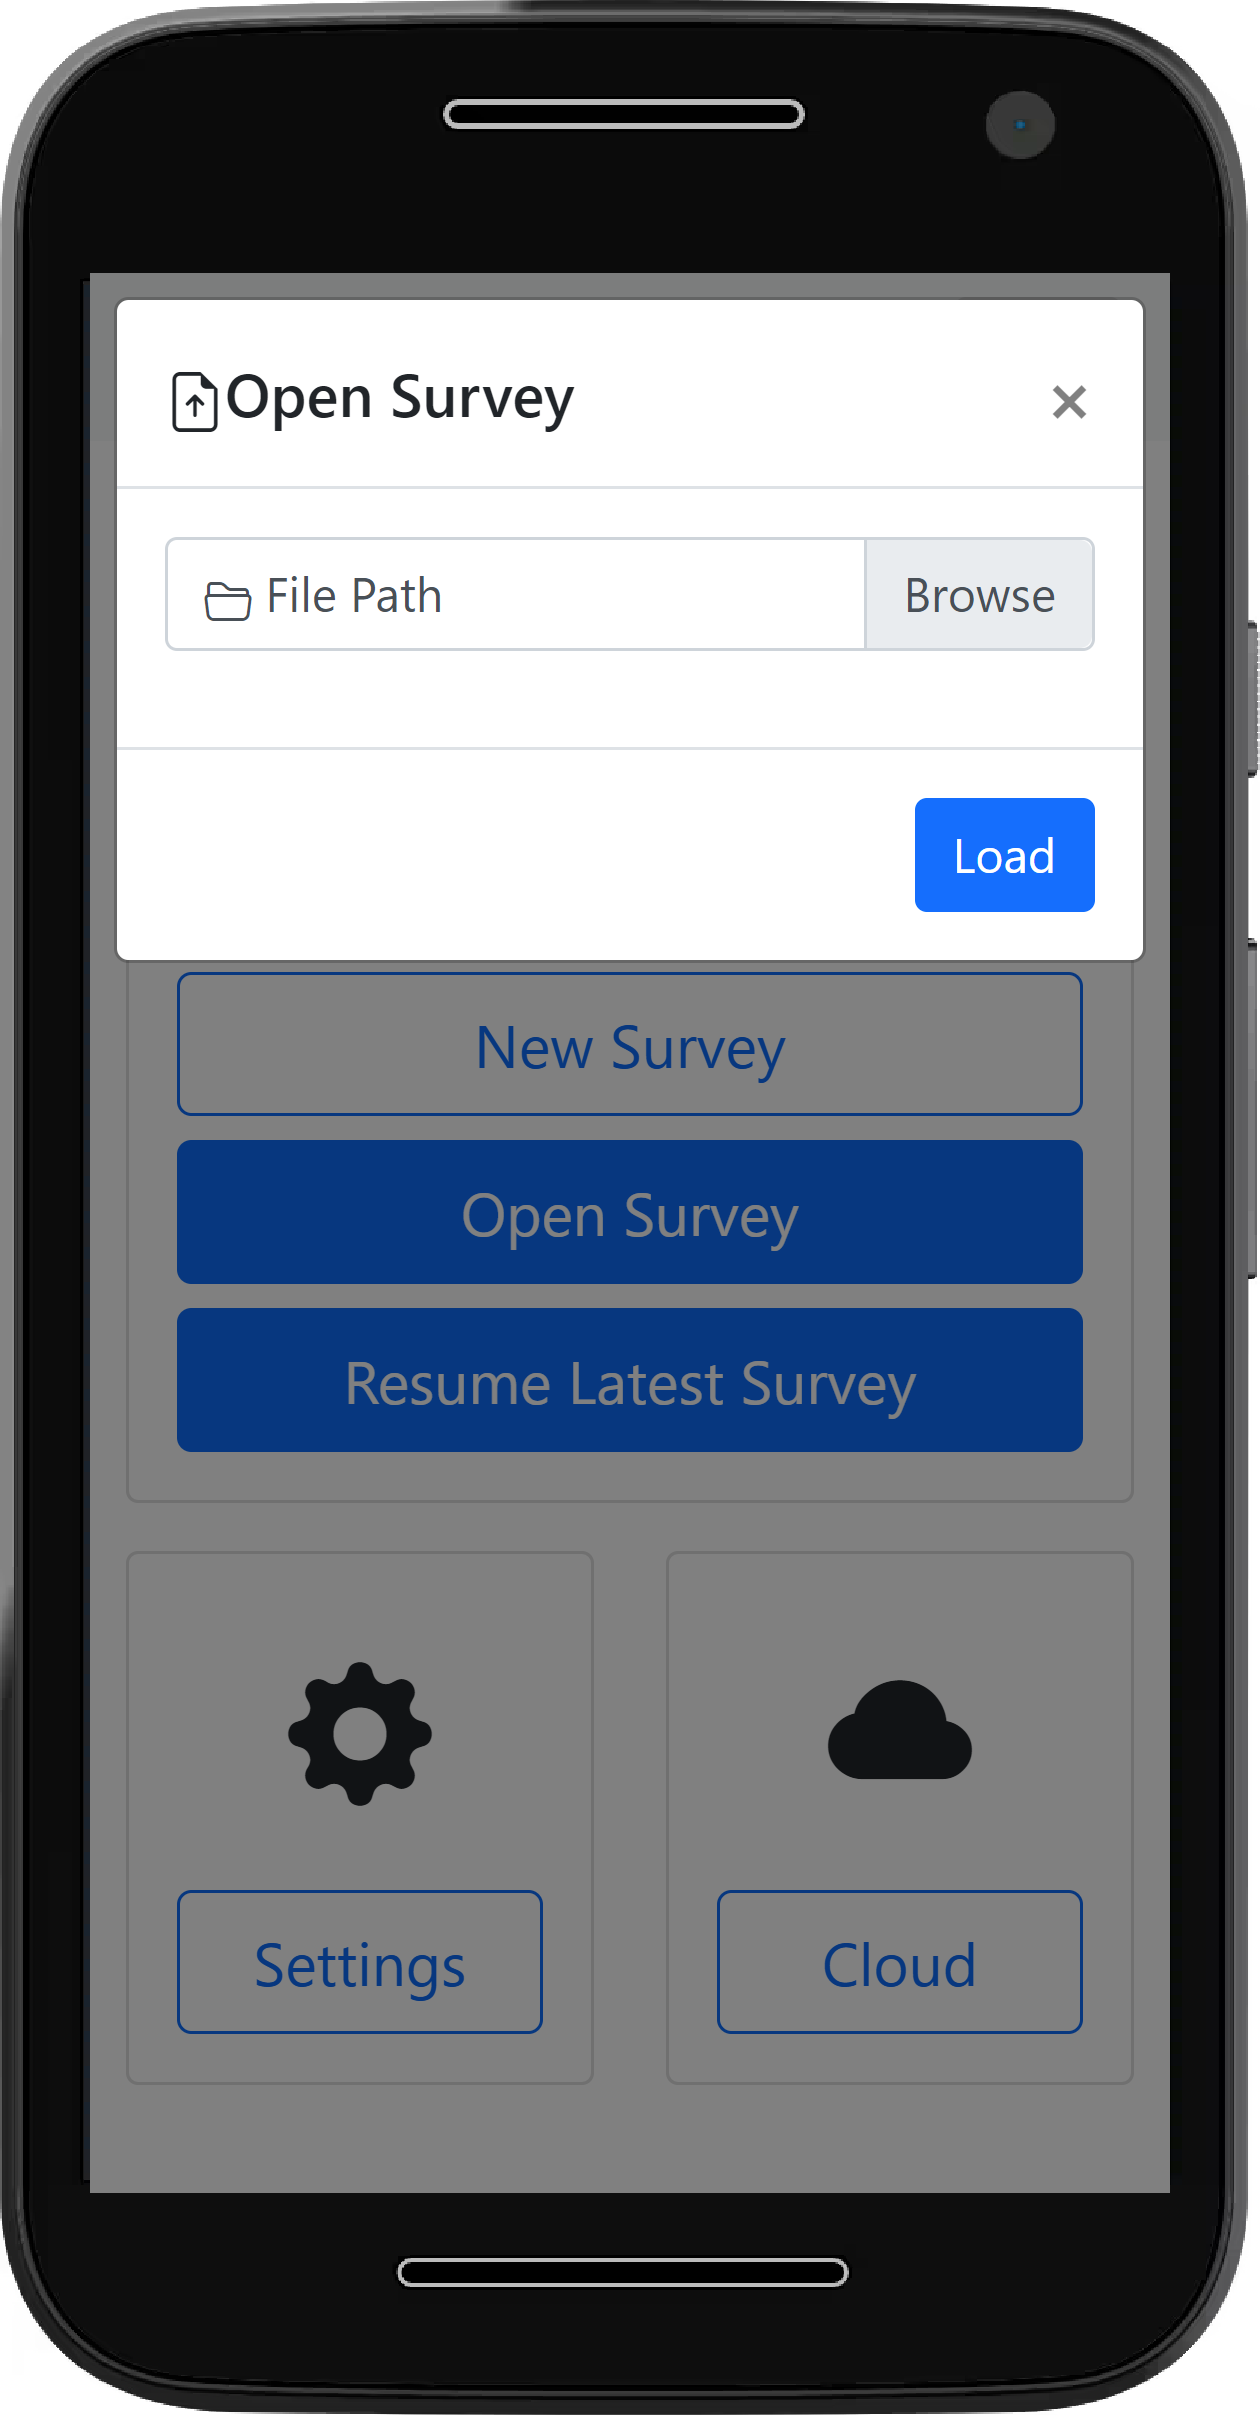
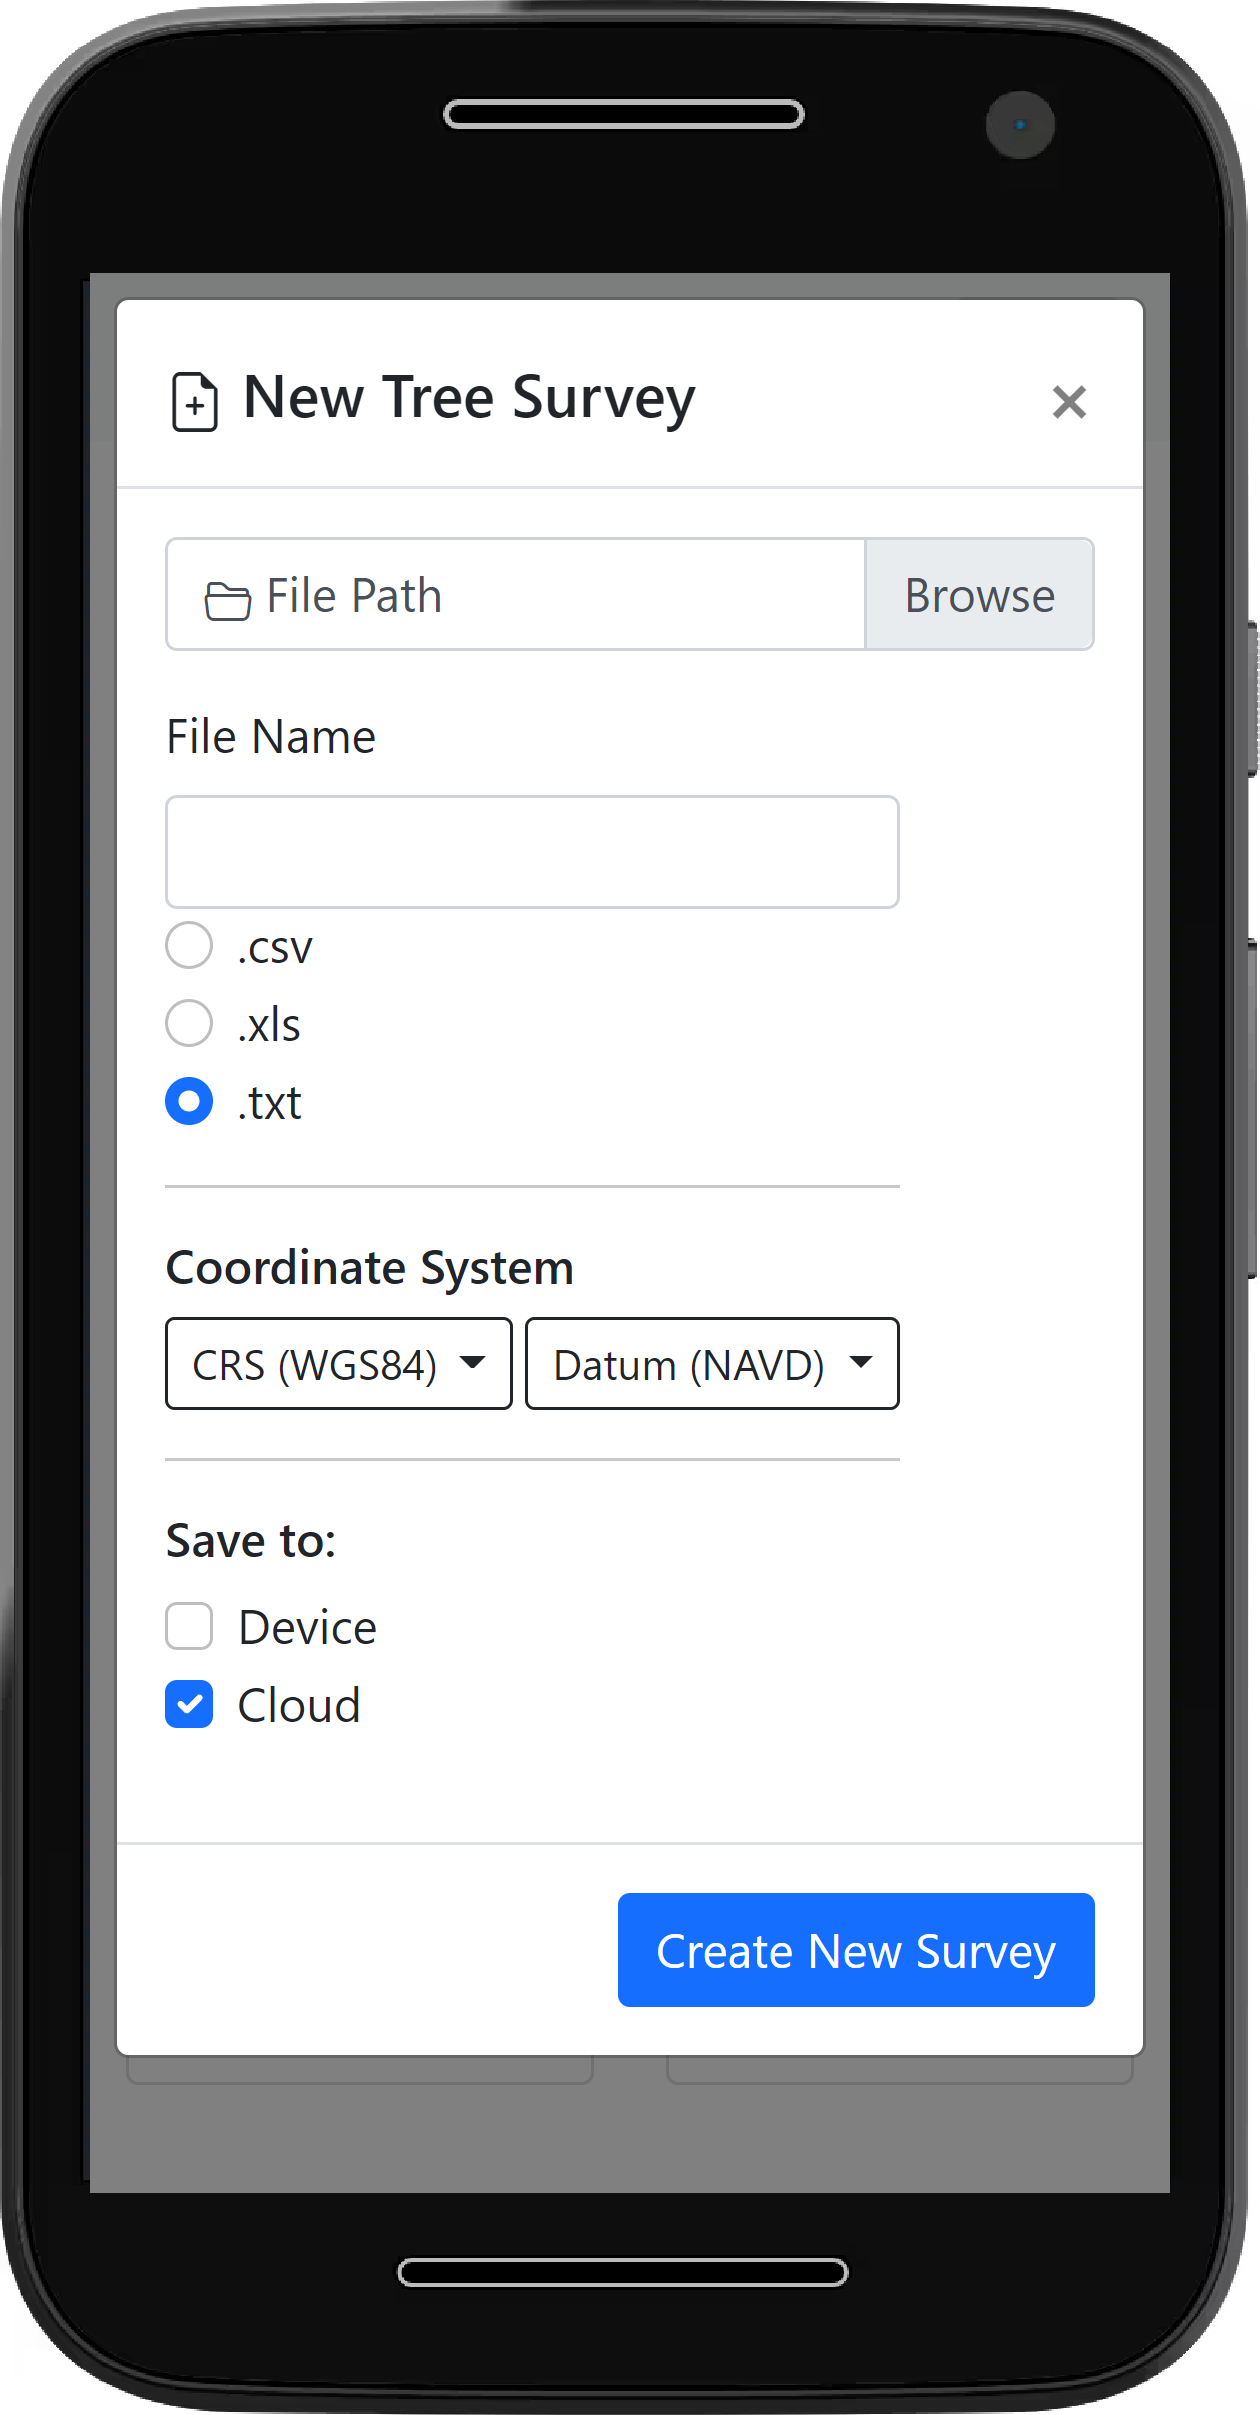
uploading new screenshots of rev.2 of the design

diff --git a/scripts/scripts.js b/scripts/scripts.js
@@ -5,9 +5,10 @@ $(document).ready(function() {
         "dom": '<"top"i>rt<"bottom"flp><"clear">'
     } );
 
-    $('#openFileModal').modal('toggle');
-} );
+    // $('#newUserModal').modal('toggle');
 
+    
+} );
 
 
 var video = document.querySelector("#videoElement");
@@ -35,9 +36,7 @@ if (navigator.mediaDevices.getUserMedia) {
     });
 }
 
-// $(window).on('load', function() {
-//     $('#exampleModal2').modal('show');
-// });
+
 
 var update = document.getElementsByTagName("td");
 for( var i = 0; i < update.length; ++i ) {
@@ -84,6 +83,17 @@ function settingsModal(){
 function cloudModal(){
   $('#cloudModal').modal('toggle');
 }
+
+function newUserModal(){
+  $('#newUserModal').modal('toggle');
+}
+
+if(newUser == 1){
+  $('#newUserModal').modal('show');
+}
+
+newUser = 0;
+
 
 
 
